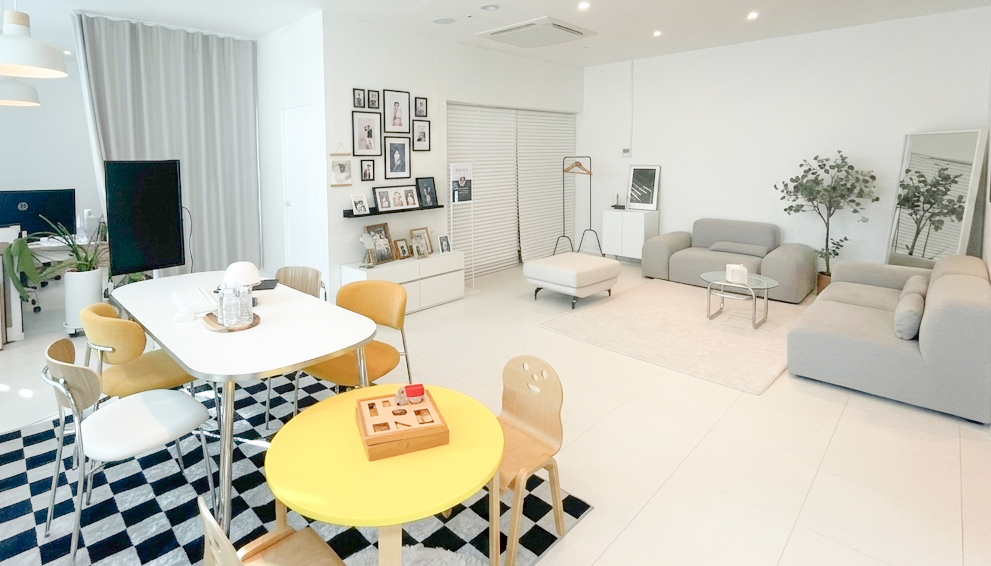
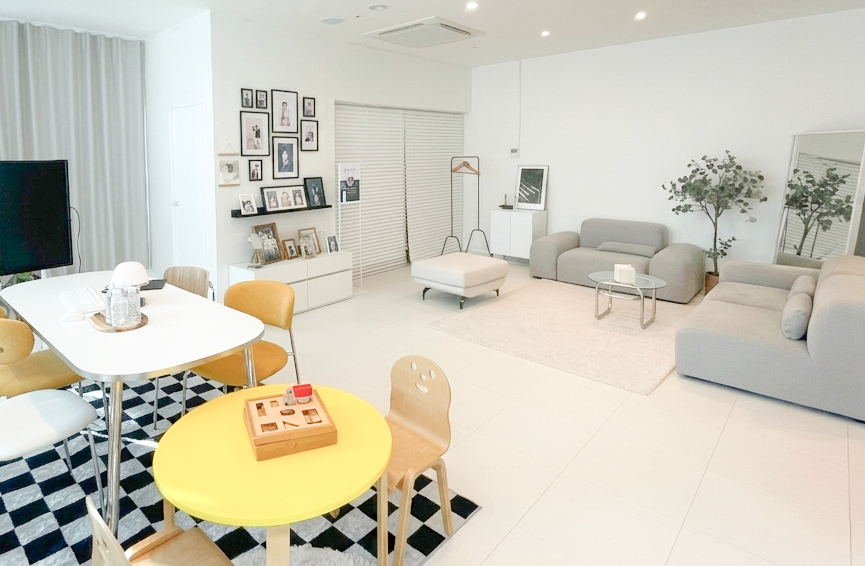
지도 Google Maps 연동 + 히어로 이미지 교체
- 위치 섹션: placeholder → Google Maps iframe 임베드
- 히어로 이미지: pintoMain.jpg 교체 (865x566 비율 반영)
- 갤러리 전체 5:7 세로 비율 통일 (5열 그리드)
- 네이버 톡톡/스마트플레이스 naver.me/G3812qwJ 직접 연결

diff --git a/pinto.html b/pinto.html
@@ -49,7 +49,7 @@ nav{position:fixed;top:0;left:0;right:0;z-index:100;display:flex;align-items:cen
 .btn-dark:hover{background:var(--gold);transform:translateY(-2px) scale(1.02)}
 .btn-outline{background:transparent;color:var(--ink2);border:1px solid var(--border2);padding:.875rem 2rem;border-radius:2rem;font-size:.875rem;font-family:'Pretendard',sans-serif;font-weight:300;text-decoration:none;transition:border-color .2s,color .2s;display:inline-block}
 .btn-outline:hover{border-color:var(--ink);color:var(--ink)}
-.hero-image{position:relative;overflow:hidden;background:#0d0b09;aspect-ratio:991/566;align-self:center}
+.hero-image{position:relative;overflow:hidden;background:#0d0b09;aspect-ratio:865/566;align-self:center}
 .hero-image-inner{position:absolute;inset:0;overflow:hidden}.hero-image-inner img{width:100%;height:100%;object-fit:cover;display:block;transition:transform 8s cubic-bezier(0.16,1,0.3,1)}.hero-image-inner:hover img{transform:scale(1.03)}
 .hero-camera{font-size:5rem;opacity:.2}
 .hero-image-badge{font-family:'Cormorant Garamond',serif;font-size:1rem;letter-spacing:.3em;text-transform:uppercase;color:rgba(28,26,23,.35)}
@@ -178,7 +178,7 @@ nav{position:fixed;top:0;left:0;right:0;z-index:100;display:flex;align-items:cen
 .info-value{font-size:.9rem;color:var(--ink2);line-height:1.75}
 .info-value strong{color:var(--ink);font-weight:500}
 .location-actions{display:flex;gap:.75rem;flex-wrap:wrap}
-.location-map{background:var(--bg3);border:1px solid var(--border);border-radius:.75rem;overflow:hidden;height:360px;display:flex;align-items:center;justify-content:center}
+.location-map{border:1px solid var(--border);border-radius:.75rem;overflow:hidden;height:380px}
 .map-placeholder{text-align:center}
 .map-pin{font-size:3rem;opacity:.3;margin-bottom:.75rem}
 .map-placeholder p{font-family:'Cormorant Garamond',serif;font-size:.9rem;letter-spacing:.08em;color:var(--ink3);line-height:1.8}
@@ -295,7 +295,7 @@ footer{background:#2a2520;padding:4rem 8% 3rem;display:grid;grid-template-column
 .reveal-delay-1{transition-delay:.1s}.reveal-delay-2{transition-delay:.2s}.reveal-delay-3{transition-delay:.3s}
 
 /* RESPONSIVE */
-@media(max-width:960px){.hero{grid-template-columns:1fr}.hero-image{aspect-ratio:991/566;width:100%}.concept{grid-template-columns:1fr;gap:3rem}.concept-label{position:static;font-size:3.5rem}.services-grid{grid-template-columns:1fr 1fr}.steps{grid-template-columns:1fr 1fr;gap:2rem}.steps::before{display:none}.location-inner{grid-template-columns:1fr}.naver-booking-inner{grid-template-columns:1fr}footer{grid-template-columns:1fr;gap:3rem}.nav-menu{display:none}}
+@media(max-width:960px){.hero{grid-template-columns:1fr}.hero-image{aspect-ratio:865/566;width:100%}.concept{grid-template-columns:1fr;gap:3rem}.concept-label{position:static;font-size:3.5rem}.services-grid{grid-template-columns:1fr 1fr}.steps{grid-template-columns:1fr 1fr;gap:2rem}.steps::before{display:none}.location-inner{grid-template-columns:1fr}.naver-booking-inner{grid-template-columns:1fr}footer{grid-template-columns:1fr;gap:3rem}.nav-menu{display:none}}
 @media(max-width:600px){.services-grid{grid-template-columns:1fr}.notice-grid{grid-template-columns:1fr}.concept-values{grid-template-columns:1fr}.services-header{flex-direction:column;align-items:flex-start}.services-note{text-align:left;border-right:none;padding-right:0}.cta-band{flex-direction:column;text-align:center}.footer-links-grid{grid-template-columns:1fr 1fr}.floating-wrap{right:1rem;bottom:1.25rem}}
 </style>
 </head>
@@ -562,12 +562,12 @@ footer{background:#2a2520;padding:4rem 8% 3rem;display:grid;grid-template-column
       </div>
     </div>
     <div class="location-map reveal reveal-delay-1">
-      <div class="map-placeholder">
-        <div class="map-pin"><span class="iconify" data-icon="solar:map-point-bold" style="font-size:3rem;color:var(--gold);opacity:.4"></span></div>
-        <p>대구광역시 달성군 유가읍<br>테크노중앙대로 254</p>
-      </div>
+      <iframe
+        src="https://maps.google.com/maps?q=대구광역시+달성군+유가읍+테크노중앙대로+254&t=m&z=16&ie=UTF8&iwloc=B&output=embed"
+        width="100%" height="380" style="border:0;display:block;" allowfullscreen="" loading="lazy"
+        referrerpolicy="no-referrer-when-downgrade" title="핀토 스튜디오 위치">
+      </iframe>
     </div>
-  </div>
 </section>
 
 <!-- GALLERY -->